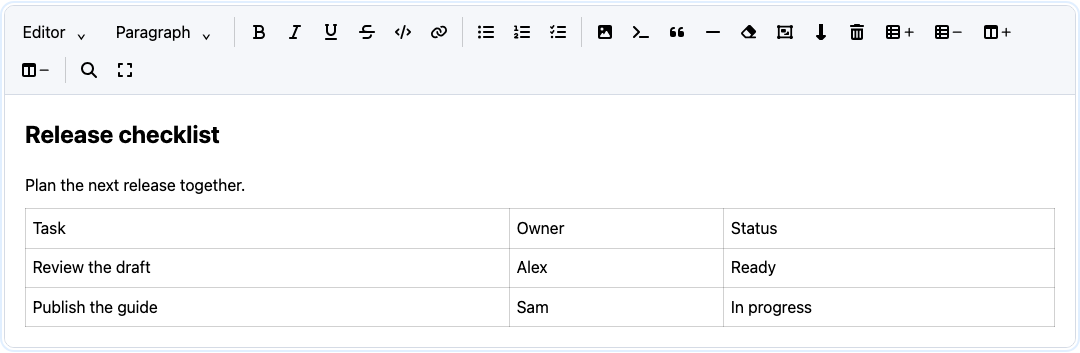
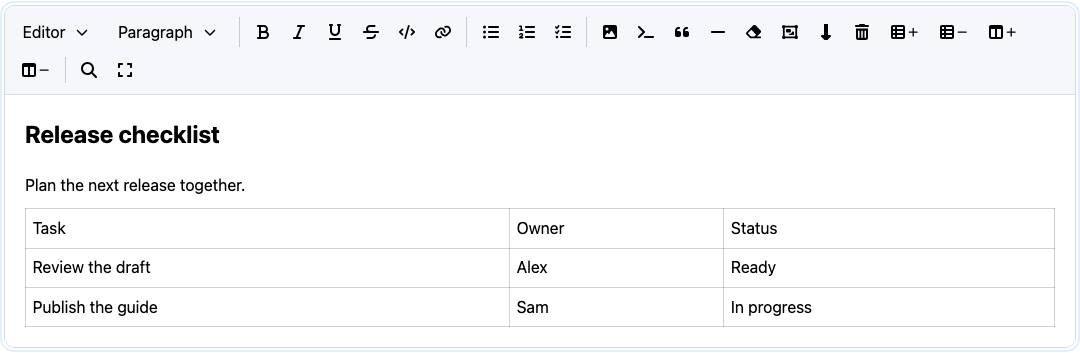
Polish source controls and dropdowns and embed component gallery

Changed region(s): [[0.2139, 0.0623, 0.6417, 0.1246], [0.6722, 0.0623, 0.9472, 0.1246], [0.0917, 0.0623, 0.1833, 0.1246]]

diff --git a/packages/web-component/src/index.ts b/packages/web-component/src/index.ts
@@ -258,7 +258,7 @@ function getTemplate(): HTMLTemplateElement {
         padding: 0.75rem; font: 0.9rem/1.6 ui-monospace, monospace; color: inherit;
         border: 0; border-radius: 0; background: var(--art-background); }
       [part='source-actions'] { display: flex; gap: 0.4rem; }
-      [part='source-note'], [part='source-error'] { font: 0.85rem/1.5 var(--art-font-family); margin-block: 0.4rem; }
+      [part='source-error'] { font: 0.85rem/1.5 var(--art-font-family); margin-block: 0.4rem; }
       button:focus-visible, [part='source']:focus-visible { outline: 2px solid currentColor; outline-offset: 2px; }
     </style>
     <div part="view-switcher" role="toolbar" aria-label="Document source tools" hidden><a-rich-text-select label="Document format" exportparts="trigger:view-trigger,menu:view-menu"></a-rich-text-select>      <div part="source-actions">
@@ -268,8 +268,7 @@ function getTemplate(): HTMLTemplateElement {
       </div></div>
     <div part="editor" role="textbox" aria-multiline="true"></div>
     <section part="source-panel" hidden>
-      <p part="source-note" id="source-note">Source edits apply only when you choose Apply changes. Applying clears undo history. ART JSON preserves the document model and uses the A Rich Text schema. Other formats may lose unsupported formatting.</p>
-      <textarea part="source" aria-label="Document source" aria-describedby="source-note source-error" spellcheck="false"></textarea>
+      <textarea part="source" aria-label="Document source" aria-describedby="source-error" spellcheck="false"></textarea>
 
       <p part="source-error" id="source-error" role="status" aria-live="polite"></p>
     </section>
@@ -554,7 +553,6 @@ export class ARichTextElement extends HTMLElementBase {
     this.#source.readOnly = this.readOnly;
     this.#source.setAttribute('aria-label', `${this.#activeView.toUpperCase()} document source`);
     this.#source.setAttribute('aria-invalid', String(Boolean(this.#sourceError)));
-    this.shadowRoot!.querySelector<HTMLElement>('[part="source-note"]')!.textContent = (this.sourceUpdate === 'auto' ? 'Valid source edits update automatically after a pause or on blur. Invalid drafts stay here. ' : 'Source edits apply only when you choose Apply changes. ') + 'Applying clears visual undo history. ART JSON uses the A Rich Text schema. Other formats may lose unsupported formatting.';
     const actions = this.shadowRoot!.querySelector<HTMLElement>('[part="source-actions"]')!;
     this.configureSourceActions(actions);
     this.shadowRoot!.querySelector<HTMLElement>('[part="source-error"]')!.textContent = this.#sourceError;
@@ -565,13 +563,13 @@ export class ARichTextElement extends HTMLElementBase {
   /** Shared source-action state for bundled and custom toolbars. */
   configureSourceActions(actions: HTMLElement): void {
     const canFormat = Boolean(this.#sourceFormatter) && this.view !== 'text' && this.view !== 'visual';
-    actions.hidden = this.view === 'visual' || (!this.#sourceDirty && !canFormat);
+    actions.hidden = this.view === 'visual' || (this.sourceUpdate !== 'auto' && !this.#sourceDirty && !canFormat);
     const formatButton = actions.querySelector<HTMLButtonElement>('[data-source-action="format"]')!;
     formatButton.hidden = !canFormat; formatButton.disabled = this.disabled || this.readOnly;
-    actions.querySelector<HTMLButtonElement>('[data-source-action="discard"]')!.hidden = !this.#sourceDirty;
+    actions.querySelector<HTMLButtonElement>('[data-source-action="discard"]')!.hidden = this.sourceUpdate !== 'auto' && !this.#sourceDirty;
     actions.querySelector<HTMLButtonElement>('[data-source-action="apply"]')!.hidden = this.sourceUpdate === 'auto' || !this.#sourceDirty;
     actions.querySelector<HTMLButtonElement>('[data-source-action="apply"]')!.disabled = this.disabled || this.readOnly;
-    actions.querySelector<HTMLButtonElement>('[data-source-action="discard"]')!.disabled = this.disabled;
+    actions.querySelector<HTMLButtonElement>('[data-source-action="discard"]')!.disabled = this.disabled || !this.#sourceDirty;
   }
 
   /** Shared view-control state for bundled and custom toolbars. */

diff --git a/packages/web-component/src/select.ts b/packages/web-component/src/select.ts
@@ -1,3 +1,5 @@
+import { selectChevronIcon } from './select-icon.js';
+
 const Base = (typeof HTMLElement === 'undefined' ? class {} : HTMLElement) as typeof HTMLElement;
 
 /** Small, dependency-free select with a top-layer, viewport-clamped listbox. */
@@ -17,6 +19,10 @@ export class ARichTextSelectElement extends Base {
       :host([hidden]) { display:none; }
       button { font:inherit; color:inherit; cursor:pointer; }
       [part=trigger] { display:flex; align-items:center; gap:.7em; justify-content:space-between; min-height:2.25rem; max-width:100%; padding:.35rem .6rem; border:0; border-radius:5px; background:transparent; }
+      [part=chevron] { display:inline-flex; align-items:center; justify-content:center; flex:none; width:.75em; height:.75em; transition:transform 150ms ease; }
+      [part=chevron] svg { display:block; width:100%; height:100%; }
+      [aria-expanded=true] [part=chevron] { transform:rotate(180deg); }
+      @media (prefers-reduced-motion:reduce) { [part=chevron] { transition:none; } }
       [part=trigger]:hover { background:color-mix(in srgb,currentColor 7%,transparent); }
       [part=trigger]:focus-visible, [role=option]:focus-visible { outline:2px solid Highlight; outline-offset:-2px; }
       button:disabled { opacity:.5; cursor:default; }
@@ -24,7 +30,7 @@ export class ARichTextSelectElement extends Base {
       [part=menu][hidden] { display:none; }
       [role=option] { display:block; width:100%; min-height:34px; padding:6px 10px; text-align:start; border:0; border-radius:4px; background:transparent; }
       [role=option]:hover, [role=option][aria-selected=true] { background:color-mix(in srgb,Highlight 15%,Canvas); }
-    </style><button part="trigger" type="button" role="combobox" aria-haspopup="listbox" aria-expanded="false" aria-controls="options"><span></span><span aria-hidden="true">⌄</span></button><div part="menu" id="options" role="listbox" popover="manual" hidden></div>`;
+    </style><button part="trigger" type="button" role="combobox" aria-haspopup="listbox" aria-expanded="false" aria-controls="options"><span></span><span part="chevron" aria-hidden="true">${selectChevronIcon}</span></button><div part="menu" id="options" role="listbox" popover="manual" hidden></div>`;
     this.#button = root.querySelector('button')!;
     this.#menu = root.querySelector('[part=menu]')!;
     this.#button.addEventListener('click', () => this.#open ? this.close() : this.open());

diff --git a/tests/browser/live-source.spec.ts b/tests/browser/live-source.spec.ts
@@ -63,3 +63,18 @@ test('source actions stay in traditional and inline toolbars with no content act
   expect(await page.locator('#editor').evaluate(node => (node as ARichTextElement).getText())).toBe('Applied in toolbar');
   await expect(toolbar.locator('[part="toolbar-header"] [part="source-actions"]')).toBeHidden();
 });
+
+test('dropdown chevron is centered and rotates with open state', async ({ page }) => {
+  const select = page.locator('a-rich-text-toolbar a-rich-text-select').filter({ has: page.getByRole('combobox', { name: 'Document format' }) });
+  const trigger = select.getByRole('combobox', { name: 'Document format' });
+  const chevron = select.locator('[part="chevron"]');
+  await expect(chevron.locator('svg')).toHaveCount(1);
+  const buttonBox = await trigger.boundingBox(); const iconBox = await chevron.boundingBox();
+  expect(Math.abs(buttonBox!.y + buttonBox!.height / 2 - iconBox!.y - iconBox!.height / 2)).toBeLessThan(1);
+  await trigger.click();
+  await expect(trigger).toHaveAttribute('aria-expanded', 'true');
+  await expect(chevron).toHaveCSS('transform', 'matrix(-1, 0, 0, -1, 0, 0)');
+  await page.keyboard.press('Escape');
+  await expect(trigger).toHaveAttribute('aria-expanded', 'false');
+  await expect(chevron).toHaveCSS('transform', 'none');
+});

diff --git a/packages/web-component/test/live-source.test.ts b/packages/web-component/test/live-source.test.ts
@@ -116,3 +116,15 @@ it('places fallback source actions beside the format selector, outside the conte
   expect(actions.closest('[part="view-switcher"]')).not.toBeNull();
   expect(editor.shadowRoot!.querySelector('[part="source-panel"] button')).toBeNull();
 });
+
+it('keeps automatic discard in place through formatting and disables it after saving', async () => {
+  const { editor } = setup();
+  const discard = editor.shadowRoot!.querySelector<HTMLButtonElement>('[data-source-action="discard"]')!;
+  expect(editor.shadowRoot!.querySelector('[part="source-note"]')).toBeNull();
+  expect(discard.hidden).toBe(false); expect(discard.disabled).toBe(true);
+  editor.sourceFormatter = source => source + '\n';
+  await editor.formatSource();
+  expect(discard.hidden).toBe(false); expect(discard.disabled).toBe(false);
+  vi.advanceTimersByTime(350);
+  expect(discard.hidden).toBe(false); expect(discard.disabled).toBe(true);
+});

diff --git a/tests/browser/component-gallery.spec.ts b/tests/browser/component-gallery.spec.ts
@@ -1,0 +1,15 @@
+import { expect, test } from '@playwright/test';
+
+test('gallery navigation targets every embedded live example', async ({ page }) => {
+  await page.goto('/dist/browser/components/');
+  const links = page.getByRole('navigation', { name: 'Component examples' }).getByRole('link');
+  await expect(links).toHaveCount(25);
+  await expect(page.locator('iframe')).toHaveCount(25);
+  await links.filter({ hasText: /^Short tag aliases$/ }).click();
+  await expect(page).toHaveURL(/#short-tags$/);
+  const frame = page.frameLocator('#short-tags iframe');
+  await expect(frame.locator('body')).toHaveAttribute('data-ready', 'true');
+  await expect(frame.locator('art-editor')).toBeVisible();
+  await expect(frame.locator('body > header')).toBeHidden();
+  expect(await page.evaluate(() => document.documentElement.scrollWidth <= innerWidth)).toBe(true);
+});

diff --git a/packages/web-component/src/select-icon.ts b/packages/web-component/src/select-icon.ts
@@ -1,0 +1,2 @@
+/** Generated by scripts/generate-toolbar-icons.mjs. Font Awesome Free 7.3.1, CC BY 4.0; see THIRD_PARTY_NOTICES.txt. */
+export const selectChevronIcon = '<svg aria-hidden="true" focusable="false" viewBox="0 0 448 512"><path fill="currentColor" d="M201.4 406.6c12.5 12.5 32.8 12.5 45.3 0l192-192c12.5-12.5 12.5-32.8 0-45.3s-32.8-12.5-45.3 0L224 338.7 54.6 169.4c-12.5-12.5-32.8-12.5-45.3 0s-12.5 32.8 0 45.3l192 192z"></path></svg>';

diff --git a/examples/components/README.md b/examples/components/README.md
@@ -8,7 +8,10 @@ pnpm build:distribution
 python3 -m http.server 8080 --directory dist/browser
 ```
 
-Open [the example index](http://localhost:8080/components/).
+Open [the component gallery](http://localhost:8080/components/). All 25 examples
+are embedded on this page, with a section navigation list and standalone links.
+Each example runs in its own frame so dialogs, focus mode, and editor state stay
+independent. Frames load lazily as you browse the gallery.
 
 | Example | Local path |
 | --- | --- |
